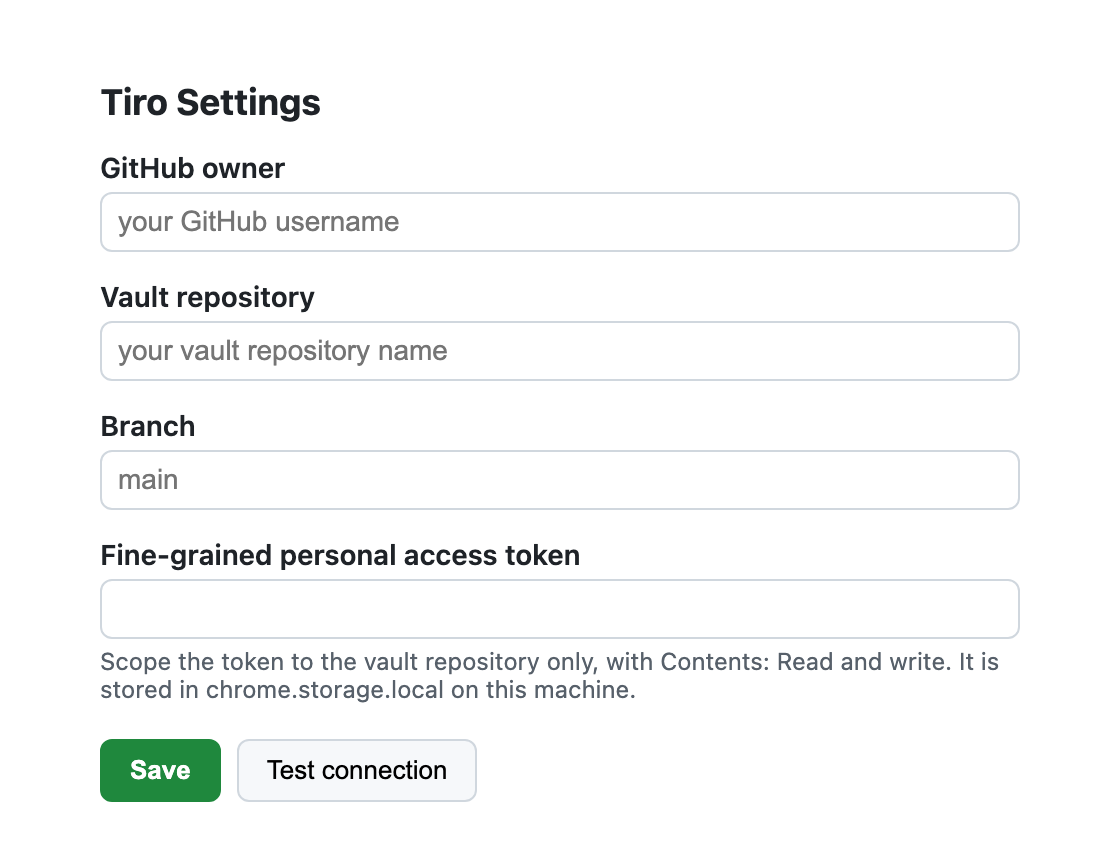
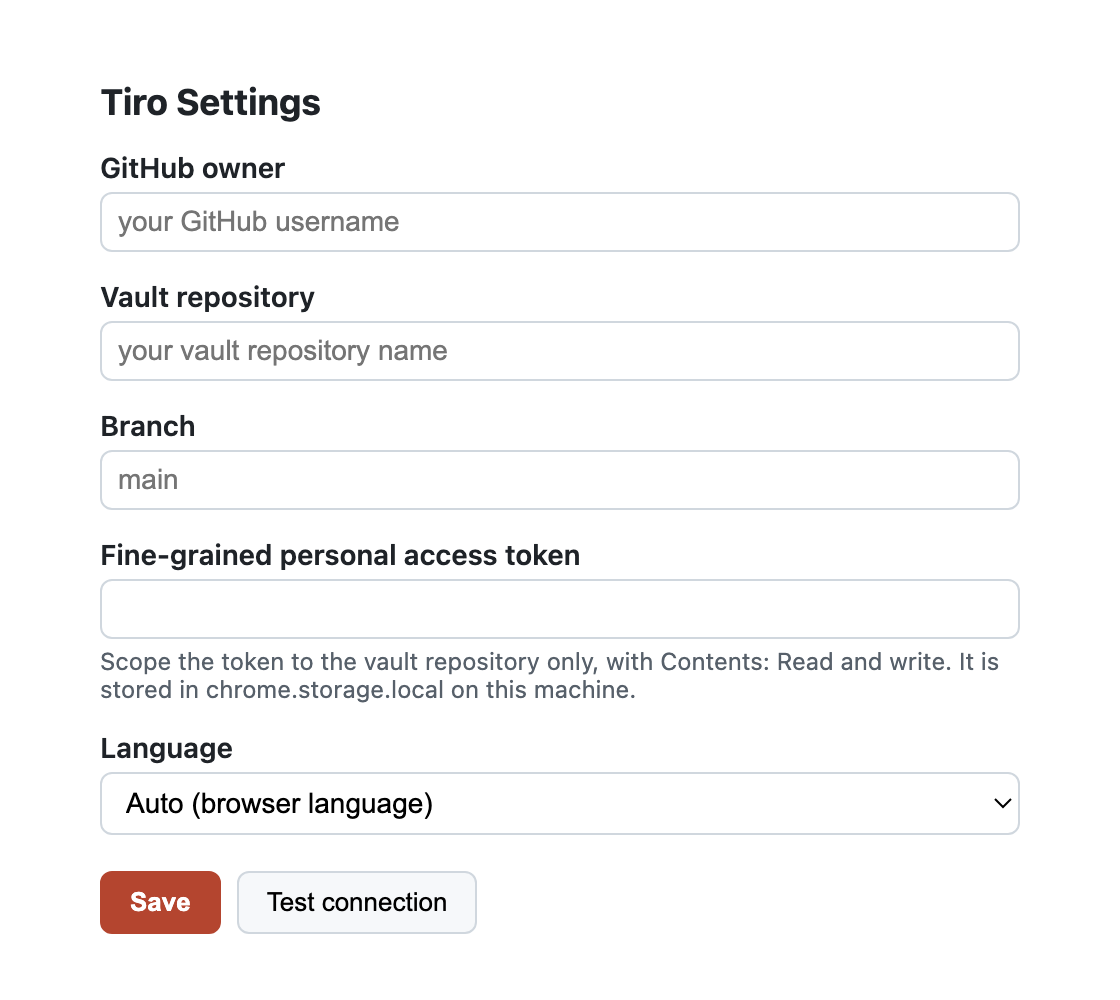
fix(extension): rebrand store artwork to terracotta
Review finding (codex, round 2, PR #16): the store templates kept the
green gradients, accent, and bullets, and options-ui.png still showed
the green Save button — so the documented recipe would have composed
mixed-brand artwork (terracotta mark on green-tinted compositions),
and the committed screenshot no longer matched the shipped options UI.

Both templates move to the redesign palette (terracotta glows and
accents on the warm paper ground, ink/line grays to match the site)
and all three PNGs are re-rendered per the README recipe. The options
capture grows from 425 to 500 CSS px: the 0.4.0 Language select made
the page taller, and 425 now cropped the Save row — the recolored
button being the thing worth showing.

diff --git a/apps/extension/store/screenshot-1-settings.html b/apps/extension/store/screenshot-1-settings.html
@@ -4,23 +4,23 @@
   body{
     font-family:-apple-system,BlinkMacSystemFont,"Segoe UI",Helvetica,Arial,sans-serif;
     background:
-      radial-gradient(900px 600px at 88% 12%, rgba(31,136,61,.16), transparent 60%),
-      radial-gradient(700px 500px at 6% 92%, rgba(31,136,61,.10), transparent 60%),
-      #f6f8fa;
+      radial-gradient(900px 600px at 88% 12%, rgba(180,69,47,.16), transparent 60%),
+      radial-gradient(700px 500px at 6% 92%, rgba(180,69,47,.10), transparent 60%),
+      #faf8f5;
     display:flex;align-items:center;gap:64px;padding:0 72px;box-sizing:border-box;
   }
   .copy{width:470px;flex:none}
   .brand{display:flex;align-items:center;gap:14px;margin-bottom:28px}
   .brand img{width:52px;height:52px;border-radius:12px}
-  .brand span{font-size:26px;font-weight:700;color:#1f2328;letter-spacing:-.01em}
-  h1{font-size:38px;line-height:1.18;margin:0 0 20px;color:#1f2328;letter-spacing:-.02em}
-  p{font-size:19px;line-height:1.55;color:#57606a;margin:0 0 26px}
+  .brand span{font-size:26px;font-weight:700;color:#1f1b16;letter-spacing:-.01em}
+  h1{font-size:38px;line-height:1.18;margin:0 0 20px;color:#1f1b16;letter-spacing:-.02em}
+  p{font-size:19px;line-height:1.55;color:#6f6659;margin:0 0 26px}
   ul{margin:0;padding:0;list-style:none}
-  li{font-size:17px;color:#1f2328;margin-bottom:13px;padding-left:30px;position:relative}
+  li{font-size:17px;color:#1f1b16;margin-bottom:13px;padding-left:30px;position:relative}
   li:before{content:"";position:absolute;left:0;top:7px;width:16px;height:16px;border-radius:50%;
-            background:#1f883d;box-shadow:inset 0 0 0 4px #f6f8fa}
+            background:#b4452f;box-shadow:inset 0 0 0 4px #faf8f5}
   .shot{flex:1;display:flex;justify-content:center}
-  .shot img{width:600px;border-radius:14px;border:1px solid #d1d9e0;background:#fff;
+  .shot img{width:600px;border-radius:14px;border:1px solid #d6cec1;background:#fff;
             box-shadow:0 24px 60px rgba(31,35,40,.16),0 4px 12px rgba(31,35,40,.08)}
 </style>
 <div class="copy">

diff --git a/apps/extension/store/promo-tile-440x280.html b/apps/extension/store/promo-tile-440x280.html
@@ -16,15 +16,15 @@
     background:
       radial-gradient(
         360px 240px at 82% 18%,
-        rgba(31, 136, 61, 0.22),
+        rgba(180, 69, 47, 0.22),
         transparent 62%
       ),
       radial-gradient(
         300px 220px at 10% 92%,
-        rgba(31, 136, 61, 0.14),
+        rgba(180, 69, 47, 0.14),
         transparent 62%
       ),
-      #f6f8fa;
+      #faf8f5;
     display: flex;
     flex-direction: column;
     justify-content: center;
@@ -43,16 +43,16 @@
     margin: 0 0 10px;
     font-size: 30px;
     letter-spacing: -0.02em;
-    color: #1f2328;
+    color: #1f1b16;
   }
   p {
     margin: 0;
     font-size: 16px;
     line-height: 1.4;
-    color: #57606a;
+    color: #6f6659;
   }
   b {
-    color: #1f883d;
+    color: #b4452f;
   }
 </style>
 <!-- The SVG, not icon-128.png: that file carries the store listing's 16px

diff --git a/apps/extension/store/README.md b/apps/extension/store/README.md
@@ -48,7 +48,7 @@ CHROME="/Applications/Google Chrome.app/Contents/MacOS/Google Chrome"
 bun run --cwd apps/extension build
 
 "$CHROME" --headless --disable-gpu --hide-scrollbars \
-  --force-device-scale-factor=2 --window-size=560,425 \
+  --force-device-scale-factor=2 --window-size=560,500 \
   --screenshot="apps/extension/store/options-ui.png" \
   "file://$PWD/apps/extension/dist/src/options/options.html"
 
@@ -66,7 +66,10 @@ bun run --cwd apps/extension build
 Confirm the sizes afterwards — the store rejects anything off by a pixel:
 
 ```sh
-file apps/extension/store/*.png   # expect 1280x800 and 440x280
+file apps/extension/store/*.png
+# expect 1280x800 (screenshot) and 440x280 (promo tile) — the store uploads.
+# options-ui.png is 1120x1000: the 2x intermediate capture the screenshot
+# composition embeds, never uploaded itself.
 ```
 
 Notes that will save you a confused half hour:
@@ -74,8 +77,9 @@ Notes that will save you a confused half hour:
 - The options page renders over `file://` because its CSS is inline; only its
   JS is external, and that JS would fail outside an extension context anyway.
   The empty-state form is exactly what should be in the listing.
-- `--window-size` is the crop, not a scale. Raising the height re-introduces
-  the dead space under the Save button that 425 was chosen to trim.
+- `--window-size` is the crop, not a scale. 500 is tuned to end just under the
+  Save row — raising it re-introduces dead space, and the old 425 now crops
+  the buttons away entirely (the Language select added in 0.4.0 grew the page).
 - Chrome writes a screenshot whether or not the page loaded, so look at the
   result. A "This site can't be reached" listing image is a real failure mode
   (a system proxy can swallow `http://127.0.0.1`, which is why these use
